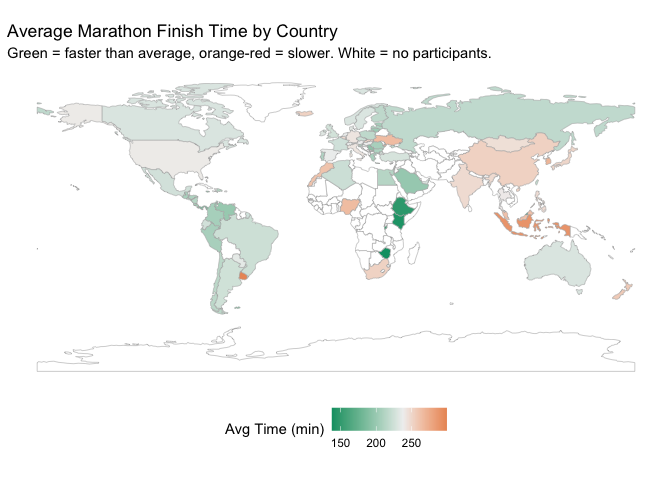
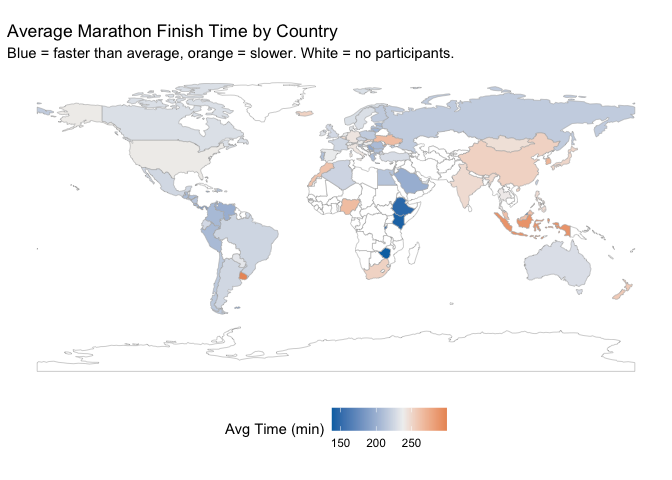
feat: fix color for marathon map green -> blue

diff --git a/project-02/siedler_project_02.md b/project-02/siedler_project_02.md
@@ -1,21 +1,19 @@
 ---
 title: "Mini-Project 02"
-author: "Sebastian Siedler, [email redacted]"
-output:
+output: 
   html_document:
     keep_md: true
     toc: true
     toc_float: true
-    df_print: paged
 ---
 
 # Data Visualization Project 02
 
+
+
 ## Data Loading and Preparation
 
-The dataset used is the Boston Marathon 2017 results. It contains information on all finishers including their name, age, gender, origin, split times at every 5K mark, pace, and official finishing time.
-
-
+The dataset used is the Boston Marathon 2017 results. It contains information on all finishers including their name, age, gender, origin (city, state, country), split times at every 5K mark, pace, and official finishing time.
 
 
 ``` r
@@ -83,11 +81,12 @@ df %>%
   )
 ```
 
-<div data-pagedtable="false">
-  <script data-pagedtable-source type="application/json">
-{"columns":[{"label":["Total_Runners"],"name":[1],"type":["int"],"align":["right"]},{"label":["Countries"],"name":[2],"type":["int"],"align":["right"]},{"label":["Median_Age"],"name":[3],"type":["dbl"],"align":["right"]},{"label":["Median_Time"],"name":[4],"type":["dbl"],"align":["right"]},{"label":["Female_Pct"],"name":[5],"type":["dbl"],"align":["right"]}],"data":[{"1":"26410","2":"91","3":"43","4":"231.6583","5":"45.33131"}],"options":{"columns":{"min":{},"max":[10]},"rows":{"min":[10],"max":[10]},"pages":{}}}
-  </script>
-</div>
+```
+## # A tibble: 1 × 5
+##   Total_Runners Countries Median_Age Median_Time Female_Pct
+##           <int>     <int>      <dbl>       <dbl>      <dbl>
+## 1         26410        91         43        232.       45.3
+```
 
 ## Visualization 1 (Interactive): Age and Finish Time Distributions
 
@@ -129,8 +128,8 @@ ggplotly(
 ```
 
 ```{=html}
-<div class="plotly html-widget html-fill-item" id="htmlwidget-3a6ae94a41f10b1ed620" style="width:672px;height:480px;"></div>
-<script type="application/json" data-for="htmlwidget-3a6ae94a41f10b1ed620">{"x":{"data":[{"orientation":"v","width":[2,2,2,2,2,2,2,2,2,2,2,2,2,2,2,2,2,2,2,2,2,2,2,2,2,2,2,2,2,2,2,2,2],"base":[0,0,0,0,0,0,0,0,0,0,0,0,0,0,0,0,0,0,0,0,0,0,0,0,0,0,0,0,0,0,0,0,0],"x":[19,21,23,25,27,29,31,33,35,37,39,41,43,45,47,49,51,53,55,57,59,61,63,65,67,69,71,73,75,77,79,81,83],"y":[146,357,757,1055,1161,1265,1146,1131,1533,1357,1638,1559,1357,2103,1627,1501,1296,1057,1186,765,776,620,274,324,167,125,44,39,25,9,6,2,2],"text":["Count: 146<br />Range: 18–20<br />Percent: 0.6%","Count: 357<br />Range: 20–22<br />Percent: 1.4%","Count: 757<br />Range: 22–24<br />Percent: 2.9%","Count: 1055<br />Range: 24–26<br />Percent: 4%","Count: 1161<br />Range: 26–28<br />Percent: 4.4%","Count: 1265<br />Range: 28–30<br />Percent: 4.8%","Count: 1146<br />Range: 30–32<br />Percent: 4.3%","Count: 1131<br />Range: 32–34<br />Percent: 4.3%","Count: 1533<br />Range: 34–36<br />Percent: 5.8%","Count: 1357<br />Range: 36–38<br />Percent: 5.1%","Count: 1638<br />Range: 38–40<br />Percent: 6.2%","Count: 1559<br />Range: 40–42<br />Percent: 5.9%","Count: 1357<br />Range: 42–44<br />Percent: 5.1%","Count: 2103<br />Range: 44–46<br />Percent: 8%","Count: 1627<br />Range: 46–48<br />Percent: 6.2%","Count: 1501<br />Range: 48–50<br />Percent: 5.7%","Count: 1296<br />Range: 50–52<br />Percent: 4.9%","Count: 1057<br />Range: 52–54<br />Percent: 4%","Count: 1186<br />Range: 54–56<br />Percent: 4.5%","Count: 765<br />Range: 56–58<br />Percent: 2.9%","Count: 776<br />Range: 58–60<br />Percent: 2.9%","Count: 620<br />Range: 60–62<br />Percent: 2.3%","Count: 274<br />Range: 62–64<br />Percent: 1%","Count: 324<br />Range: 64–66<br />Percent: 1.2%","Count: 167<br />Range: 66–68<br />Percent: 0.6%","Count: 125<br />Range: 68–70<br />Percent: 0.5%","Count: 44<br />Range: 70–72<br />Percent: 0.2%","Count: 39<br />Range: 72–74<br />Percent: 0.1%","Count: 25<br />Range: 74–76<br />Percent: 0.1%","Count: 9<br />Range: 76–78<br />Percent: 0%","Count: 6<br />Range: 78–80<br />Percent: 0%","Count: 2<br />Range: 80–82<br />Percent: 0%","Count: 2<br />Range: 82–84<br />Percent: 0%"],"type":"bar","textposition":"none","marker":{"autocolorscale":false,"color":"rgba(0,114,178,0.85)","line":{"width":1.8897637795275593,"color":"rgba(255,255,255,1)"}},"showlegend":false,"xaxis":"x","yaxis":"y","hoverinfo":"text","frame":null}],"layout":{"margin":{"t":40.840182648401829,"r":7.3059360730593621,"b":37.260273972602747,"l":48.949771689497723},"plot_bgcolor":"rgba(255,255,255,1)","paper_bgcolor":"rgba(255,255,255,1)","font":{"color":"rgba(0,0,0,1)","family":"","size":14.611872146118724},"title":{"text":"Age Distribution","font":{"color":"rgba(0,0,0,1)","family":"","size":17.534246575342465},"x":0,"xref":"paper"},"xaxis":{"domain":[0,1],"automargin":true,"type":"linear","autorange":false,"range":[14.699999999999999,87.299999999999997],"tickmode":"array","ticktext":["20","40","60","80"],"tickvals":[20,40,60,80],"categoryorder":"array","categoryarray":["20","40","60","80"],"nticks":null,"ticks":"outside","tickcolor":"rgba(51,51,51,1)","ticklen":3.6529680365296811,"tickwidth":0.66417600664176002,"showticklabels":true,"tickfont":{"color":"rgba(77,77,77,1)","family":"","size":11.68949771689498},"tickangle":-0,"showline":false,"linecolor":null,"linewidth":0,"showgrid":true,"gridcolor":"rgba(235,235,235,1)","gridwidth":0.66417600664176002,"zeroline":false,"anchor":"y","title":{"text":"Age","font":{"color":"rgba(0,0,0,1)","family":"","size":14.611872146118724}},"hoverformat":".2f"},"yaxis":{"domain":[0,1],"automargin":true,"type":"linear","autorange":false,"range":[-105.15000000000001,2208.1500000000001],"tickmode":"array","ticktext":["0","500","1000","1500","2000"],"tickvals":[0,500,1000.0000000000001,1499.9999999999998,2000],"categoryorder":"array","categoryarray":["0","500","1000","1500","2000"],"nticks":null,"ticks":"outside","tickcolor":"rgba(51,51,51,1)","ticklen":3.6529680365296811,"tickwidth":0.66417600664176002,"showticklabels":true,"tickfont":{"color":"rgba(77,77,77,1)","family":"","size":11.68949771689498},"tickangle":-0,"showline":false,"linecolor":null,"linewidth":0,"showgrid":true,"gridcolor":"rgba(235,235,235,1)","gridwidth":0.66417600664176002,"zeroline":false,"anchor":"x","title":{"text":"Count","font":{"color":"rgba(0,0,0,1)","family":"","size":14.611872146118724}},"hoverformat":".2f"},"shapes":[{"type":"rect","fillcolor":"rgba(255,255,255,1)","line":{"color":"rgba(51,51,51,1)","width":0.66417600664176002,"linetype":"solid"},"yref":"paper","xref":"paper","layer":"below","x0":0,"x1":1,"y0":0,"y1":1}],"showlegend":false,"legend":{"bgcolor":"rgba(255,255,255,1)","bordercolor":"transparent","borderwidth":1.8897637795275593,"font":{"color":"rgba(0,0,0,1)","family":"","size":11.68949771689498}},"hovermode":"closest","barmode":"relative"},"config":{"doubleClick":"reset","modeBarButtonsToAdd":["hoverclosest","hovercompare"],"showSendToCloud":false},"source":"A","attrs":{"9cb23d45dd17":{"x":{},"y":{},"text":{},"type":"bar"}},"cur_data":"9cb23d45dd17","visdat":{"9cb23d45dd17":["function (y) ","x"]},"highlight":{"on":"plotly_click","persistent":false,"dynamic":false,"selectize":false,"opacityDim":0.20000000000000001,"selected":{"opacity":1},"debounce":0},"shinyEvents":["plotly_hover","plotly_click","plotly_selected","plotly_relayout","plotly_brushed","plotly_brushing","plotly_clickannotation","plotly_doubleclick","plotly_deselect","plotly_afterplot","plotly_sunburstclick"],"base_url":"https://plot.ly"},"evals":[],"jsHooks":[]}</script>
+<div class="plotly html-widget html-fill-item" id="htmlwidget-e283be3314cfbc374eac" style="width:672px;height:480px;"></div>
+<script type="application/json" data-for="htmlwidget-e283be3314cfbc374eac">{"x":{"data":[{"orientation":"v","width":[2,2,2,2,2,2,2,2,2,2,2,2,2,2,2,2,2,2,2,2,2,2,2,2,2,2,2,2,2,2,2,2,2],"base":[0,0,0,0,0,0,0,0,0,0,0,0,0,0,0,0,0,0,0,0,0,0,0,0,0,0,0,0,0,0,0,0,0],"x":[19,21,23,25,27,29,31,33,35,37,39,41,43,45,47,49,51,53,55,57,59,61,63,65,67,69,71,73,75,77,79,81,83],"y":[146,357,757,1055,1161,1265,1146,1131,1533,1357,1638,1559,1357,2103,1627,1501,1296,1057,1186,765,776,620,274,324,167,125,44,39,25,9,6,2,2],"text":["Count: 146<br />Range: 18–20<br />Percent: 0.6%","Count: 357<br />Range: 20–22<br />Percent: 1.4%","Count: 757<br />Range: 22–24<br />Percent: 2.9%","Count: 1055<br />Range: 24–26<br />Percent: 4%","Count: 1161<br />Range: 26–28<br />Percent: 4.4%","Count: 1265<br />Range: 28–30<br />Percent: 4.8%","Count: 1146<br />Range: 30–32<br />Percent: 4.3%","Count: 1131<br />Range: 32–34<br />Percent: 4.3%","Count: 1533<br />Range: 34–36<br />Percent: 5.8%","Count: 1357<br />Range: 36–38<br />Percent: 5.1%","Count: 1638<br />Range: 38–40<br />Percent: 6.2%","Count: 1559<br />Range: 40–42<br />Percent: 5.9%","Count: 1357<br />Range: 42–44<br />Percent: 5.1%","Count: 2103<br />Range: 44–46<br />Percent: 8%","Count: 1627<br />Range: 46–48<br />Percent: 6.2%","Count: 1501<br />Range: 48–50<br />Percent: 5.7%","Count: 1296<br />Range: 50–52<br />Percent: 4.9%","Count: 1057<br />Range: 52–54<br />Percent: 4%","Count: 1186<br />Range: 54–56<br />Percent: 4.5%","Count: 765<br />Range: 56–58<br />Percent: 2.9%","Count: 776<br />Range: 58–60<br />Percent: 2.9%","Count: 620<br />Range: 60–62<br />Percent: 2.3%","Count: 274<br />Range: 62–64<br />Percent: 1%","Count: 324<br />Range: 64–66<br />Percent: 1.2%","Count: 167<br />Range: 66–68<br />Percent: 0.6%","Count: 125<br />Range: 68–70<br />Percent: 0.5%","Count: 44<br />Range: 70–72<br />Percent: 0.2%","Count: 39<br />Range: 72–74<br />Percent: 0.1%","Count: 25<br />Range: 74–76<br />Percent: 0.1%","Count: 9<br />Range: 76–78<br />Percent: 0%","Count: 6<br />Range: 78–80<br />Percent: 0%","Count: 2<br />Range: 80–82<br />Percent: 0%","Count: 2<br />Range: 82–84<br />Percent: 0%"],"type":"bar","textposition":"none","marker":{"autocolorscale":false,"color":"rgba(0,114,178,0.85)","line":{"width":1.8897637795275593,"color":"rgba(255,255,255,1)"}},"showlegend":false,"xaxis":"x","yaxis":"y","hoverinfo":"text","frame":null}],"layout":{"margin":{"t":40.840182648401829,"r":7.3059360730593621,"b":37.260273972602747,"l":48.949771689497723},"plot_bgcolor":"rgba(255,255,255,1)","paper_bgcolor":"rgba(255,255,255,1)","font":{"color":"rgba(0,0,0,1)","family":"","size":14.611872146118724},"title":{"text":"Age Distribution","font":{"color":"rgba(0,0,0,1)","family":"","size":17.534246575342465},"x":0,"xref":"paper"},"xaxis":{"domain":[0,1],"automargin":true,"type":"linear","autorange":false,"range":[14.699999999999999,87.299999999999997],"tickmode":"array","ticktext":["20","40","60","80"],"tickvals":[20,40,60,80],"categoryorder":"array","categoryarray":["20","40","60","80"],"nticks":null,"ticks":"outside","tickcolor":"rgba(51,51,51,1)","ticklen":3.6529680365296811,"tickwidth":0.66417600664176002,"showticklabels":true,"tickfont":{"color":"rgba(77,77,77,1)","family":"","size":11.68949771689498},"tickangle":-0,"showline":false,"linecolor":null,"linewidth":0,"showgrid":true,"gridcolor":"rgba(235,235,235,1)","gridwidth":0.66417600664176002,"zeroline":false,"anchor":"y","title":{"text":"Age","font":{"color":"rgba(0,0,0,1)","family":"","size":14.611872146118724}},"hoverformat":".2f"},"yaxis":{"domain":[0,1],"automargin":true,"type":"linear","autorange":false,"range":[-105.15000000000001,2208.1500000000001],"tickmode":"array","ticktext":["0","500","1000","1500","2000"],"tickvals":[0,500,1000.0000000000001,1499.9999999999998,2000],"categoryorder":"array","categoryarray":["0","500","1000","1500","2000"],"nticks":null,"ticks":"outside","tickcolor":"rgba(51,51,51,1)","ticklen":3.6529680365296811,"tickwidth":0.66417600664176002,"showticklabels":true,"tickfont":{"color":"rgba(77,77,77,1)","family":"","size":11.68949771689498},"tickangle":-0,"showline":false,"linecolor":null,"linewidth":0,"showgrid":true,"gridcolor":"rgba(235,235,235,1)","gridwidth":0.66417600664176002,"zeroline":false,"anchor":"x","title":{"text":"Count","font":{"color":"rgba(0,0,0,1)","family":"","size":14.611872146118724}},"hoverformat":".2f"},"shapes":[{"type":"rect","fillcolor":"rgba(255,255,255,1)","line":{"color":"rgba(51,51,51,1)","width":0.66417600664176002,"linetype":"solid"},"yref":"paper","xref":"paper","layer":"below","x0":0,"x1":1,"y0":0,"y1":1}],"showlegend":false,"legend":{"bgcolor":"rgba(255,255,255,1)","bordercolor":"transparent","borderwidth":1.8897637795275593,"font":{"color":"rgba(0,0,0,1)","family":"","size":11.68949771689498}},"hovermode":"closest","barmode":"relative"},"config":{"doubleClick":"reset","modeBarButtonsToAdd":["hoverclosest","hovercompare"],"showSendToCloud":false},"source":"A","attrs":{"1223238747977":{"x":{},"y":{},"text":{},"type":"bar"}},"cur_data":"1223238747977","visdat":{"1223238747977":["function (y) ","x"]},"highlight":{"on":"plotly_click","persistent":false,"dynamic":false,"selectize":false,"opacityDim":0.20000000000000001,"selected":{"opacity":1},"debounce":0},"shinyEvents":["plotly_hover","plotly_click","plotly_selected","plotly_relayout","plotly_brushed","plotly_brushing","plotly_clickannotation","plotly_doubleclick","plotly_deselect","plotly_afterplot","plotly_sunburstclick"],"base_url":"https://plot.ly"},"evals":[],"jsHooks":[]}</script>
 ```
 
 
@@ -157,11 +156,11 @@ ggplotly(
 ```
 
 ```{=html}
-<div class="plotly html-widget html-fill-item" id="htmlwidget-467d5a4cc8c872dfcbab" style="width:672px;height:480px;"></div>
-<script type="application/json" data-for="htmlwidget-467d5a4cc8c872dfcbab">{"x":{"data":[{"orientation":"v","width":[10,10,10,10,10,10,10,10,10,10,10,10,10,10,10,10,10,10,10,10,10,10,10,10,10,10,10,10,10,10,10,10,10,10,10,10],"base":[0,0,0,0,0,0,0,0,0,0,0,0,0,0,0,0,0,0,0,0,0,0,0,0,0,0,0,0,0,0,0,0,0,0,0,0],"x":[125,135,145,155,165,175,185,195,205,215,225,235,245,255,265,275,285,295,305,315,325,335,345,355,365,375,385,395,405,415,425,435,445,455,465,475],"y":[2,16,38,130,400,869,1371,1828,2393,2712,2957,2915,2036,1865,1488,1152,963,799,597,523,428,323,250,229,97,8,5,3,4,3,2,2,1,0,0,1],"text":["Count: 2<br />Range: 120–130<br />Percent: 0%","Count: 16<br />Range: 130–140<br />Percent: 0.1%","Count: 38<br />Range: 140–150<br />Percent: 0.1%","Count: 130<br />Range: 150–160<br />Percent: 0.5%","Count: 400<br />Range: 160–170<br />Percent: 1.5%","Count: 869<br />Range: 170–180<br />Percent: 3.3%","Count: 1371<br />Range: 180–190<br />Percent: 5.2%","Count: 1828<br />Range: 190–200<br />Percent: 6.9%","Count: 2393<br />Range: 200–210<br />Percent: 9.1%","Count: 2712<br />Range: 210–220<br />Percent: 10.3%","Count: 2957<br />Range: 220–230<br />Percent: 11.2%","Count: 2915<br />Range: 230–240<br />Percent: 11%","Count: 2036<br />Range: 240–250<br />Percent: 7.7%","Count: 1865<br />Range: 250–260<br />Percent: 7.1%","Count: 1488<br />Range: 260–270<br />Percent: 5.6%","Count: 1152<br />Range: 270–280<br />Percent: 4.4%","Count: 963<br />Range: 280–290<br />Percent: 3.6%","Count: 799<br />Range: 290–300<br />Percent: 3%","Count: 597<br />Range: 300–310<br />Percent: 2.3%","Count: 523<br />Range: 310–320<br />Percent: 2%","Count: 428<br />Range: 320–330<br />Percent: 1.6%","Count: 323<br />Range: 330–340<br />Percent: 1.2%","Count: 250<br />Range: 340–350<br />Percent: 0.9%","Count: 229<br />Range: 350–360<br />Percent: 0.9%","Count: 97<br />Range: 360–370<br />Percent: 0.4%","Count: 8<br />Range: 370–380<br />Percent: 0%","Count: 5<br />Range: 380–390<br />Percent: 0%","Count: 3<br />Range: 390–400<br />Percent: 0%","Count: 4<br />Range: 400–410<br />Percent: 0%","Count: 3<br />Range: 410–420<br />Percent: 0%","Count: 2<br />Range: 420–430<br />Percent: 0%","Count: 2<br />Range: 430–440<br />Percent: 0%","Count: 1<br />Range: 440–450<br />Percent: 0%","Count: 0<br />Range: 450–460<br />Percent: 0%","Count: 0<br />Range: 460–470<br />Percent: 0%","Count: 1<br />Range: 470–480<br />Percent: 0%"],"type":"bar","textposition":"none","marker":{"autocolorscale":false,"color":"rgba(0,158,115,0.85)","line":{"width":1.8897637795275593,"color":"rgba(255,255,255,1)"}},"showlegend":false,"xaxis":"x","yaxis":"y","hoverinfo":"text","frame":null}],"layout":{"margin":{"t":40.840182648401829,"r":7.3059360730593621,"b":37.260273972602747,"l":48.949771689497723},"plot_bgcolor":"rgba(255,255,255,1)","paper_bgcolor":"rgba(255,255,255,1)","font":{"color":"rgba(0,0,0,1)","family":"","size":14.611872146118724},"title":{"text":"Finishing Time Distribution","font":{"color":"rgba(0,0,0,1)","family":"","size":17.534246575342465},"x":0,"xref":"paper"},"xaxis":{"domain":[0,1],"automargin":true,"type":"linear","autorange":false,"range":[102,498],"tickmode":"array","ticktext":["200","300","400"],"tickvals":[200,300,400],"categoryorder":"array","categoryarray":["200","300","400"],"nticks":null,"ticks":"outside","tickcolor":"rgba(51,51,51,1)","ticklen":3.6529680365296811,"tickwidth":0.66417600664176002,"showticklabels":true,"tickfont":{"color":"rgba(77,77,77,1)","family":"","size":11.68949771689498},"tickangle":-0,"showline":false,"linecolor":null,"linewidth":0,"showgrid":true,"gridcolor":"rgba(235,235,235,1)","gridwidth":0.66417600664176002,"zeroline":false,"anchor":"y","title":{"text":"Time (minutes)","font":{"color":"rgba(0,0,0,1)","family":"","size":14.611872146118724}},"hoverformat":".2f"},"yaxis":{"domain":[0,1],"automargin":true,"type":"linear","autorange":false,"range":[-147.84999999999999,3104.8499999999999],"tickmode":"array","ticktext":["0","1000","2000","3000"],"tickvals":[0,999.99999999999989,2000,3000],"categoryorder":"array","categoryarray":["0","1000","2000","3000"],"nticks":null,"ticks":"outside","tickcolor":"rgba(51,51,51,1)","ticklen":3.6529680365296811,"tickwidth":0.66417600664176002,"showticklabels":true,"tickfont":{"color":"rgba(77,77,77,1)","family":"","size":11.68949771689498},"tickangle":-0,"showline":false,"linecolor":null,"linewidth":0,"showgrid":true,"gridcolor":"rgba(235,235,235,1)","gridwidth":0.66417600664176002,"zeroline":false,"anchor":"x","title":{"text":"Count","font":{"color":"rgba(0,0,0,1)","family":"","size":14.611872146118724}},"hoverformat":".2f"},"shapes":[{"type":"rect","fillcolor":"rgba(255,255,255,1)","line":{"color":"rgba(51,51,51,1)","width":0.66417600664176002,"linetype":"solid"},"yref":"paper","xref":"paper","layer":"below","x0":0,"x1":1,"y0":0,"y1":1}],"showlegend":false,"legend":{"bgcolor":"rgba(255,255,255,1)","bordercolor":"transparent","borderwidth":1.8897637795275593,"font":{"color":"rgba(0,0,0,1)","family":"","size":11.68949771689498}},"hovermode":"closest","barmode":"relative"},"config":{"doubleClick":"reset","modeBarButtonsToAdd":["hoverclosest","hovercompare"],"showSendToCloud":false},"source":"A","attrs":{"9cb21c91a0b9":{"x":{},"y":{},"text":{},"type":"bar"}},"cur_data":"9cb21c91a0b9","visdat":{"9cb21c91a0b9":["function (y) ","x"]},"highlight":{"on":"plotly_click","persistent":false,"dynamic":false,"selectize":false,"opacityDim":0.20000000000000001,"selected":{"opacity":1},"debounce":0},"shinyEvents":["plotly_hover","plotly_click","plotly_selected","plotly_relayout","plotly_brushed","plotly_brushing","plotly_clickannotation","plotly_doubleclick","plotly_deselect","plotly_afterplot","plotly_sunburstclick"],"base_url":"https://plot.ly"},"evals":[],"jsHooks":[]}</script>
+<div class="plotly html-widget html-fill-item" id="htmlwidget-536eb66f47ae3655f610" style="width:672px;height:480px;"></div>
+<script type="application/json" data-for="htmlwidget-536eb66f47ae3655f610">{"x":{"data":[{"orientation":"v","width":[10,10,10,10,10,10,10,10,10,10,10,10,10,10,10,10,10,10,10,10,10,10,10,10,10,10,10,10,10,10,10,10,10,10,10,10],"base":[0,0,0,0,0,0,0,0,0,0,0,0,0,0,0,0,0,0,0,0,0,0,0,0,0,0,0,0,0,0,0,0,0,0,0,0],"x":[125,135,145,155,165,175,185,195,205,215,225,235,245,255,265,275,285,295,305,315,325,335,345,355,365,375,385,395,405,415,425,435,445,455,465,475],"y":[2,16,38,130,400,869,1371,1828,2393,2712,2957,2915,2036,1865,1488,1152,963,799,597,523,428,323,250,229,97,8,5,3,4,3,2,2,1,0,0,1],"text":["Count: 2<br />Range: 120–130<br />Percent: 0%","Count: 16<br />Range: 130–140<br />Percent: 0.1%","Count: 38<br />Range: 140–150<br />Percent: 0.1%","Count: 130<br />Range: 150–160<br />Percent: 0.5%","Count: 400<br />Range: 160–170<br />Percent: 1.5%","Count: 869<br />Range: 170–180<br />Percent: 3.3%","Count: 1371<br />Range: 180–190<br />Percent: 5.2%","Count: 1828<br />Range: 190–200<br />Percent: 6.9%","Count: 2393<br />Range: 200–210<br />Percent: 9.1%","Count: 2712<br />Range: 210–220<br />Percent: 10.3%","Count: 2957<br />Range: 220–230<br />Percent: 11.2%","Count: 2915<br />Range: 230–240<br />Percent: 11%","Count: 2036<br />Range: 240–250<br />Percent: 7.7%","Count: 1865<br />Range: 250–260<br />Percent: 7.1%","Count: 1488<br />Range: 260–270<br />Percent: 5.6%","Count: 1152<br />Range: 270–280<br />Percent: 4.4%","Count: 963<br />Range: 280–290<br />Percent: 3.6%","Count: 799<br />Range: 290–300<br />Percent: 3%","Count: 597<br />Range: 300–310<br />Percent: 2.3%","Count: 523<br />Range: 310–320<br />Percent: 2%","Count: 428<br />Range: 320–330<br />Percent: 1.6%","Count: 323<br />Range: 330–340<br />Percent: 1.2%","Count: 250<br />Range: 340–350<br />Percent: 0.9%","Count: 229<br />Range: 350–360<br />Percent: 0.9%","Count: 97<br />Range: 360–370<br />Percent: 0.4%","Count: 8<br />Range: 370–380<br />Percent: 0%","Count: 5<br />Range: 380–390<br />Percent: 0%","Count: 3<br />Range: 390–400<br />Percent: 0%","Count: 4<br />Range: 400–410<br />Percent: 0%","Count: 3<br />Range: 410–420<br />Percent: 0%","Count: 2<br />Range: 420–430<br />Percent: 0%","Count: 2<br />Range: 430–440<br />Percent: 0%","Count: 1<br />Range: 440–450<br />Percent: 0%","Count: 0<br />Range: 450–460<br />Percent: 0%","Count: 0<br />Range: 460–470<br />Percent: 0%","Count: 1<br />Range: 470–480<br />Percent: 0%"],"type":"bar","textposition":"none","marker":{"autocolorscale":false,"color":"rgba(0,158,115,0.85)","line":{"width":1.8897637795275593,"color":"rgba(255,255,255,1)"}},"showlegend":false,"xaxis":"x","yaxis":"y","hoverinfo":"text","frame":null}],"layout":{"margin":{"t":40.840182648401829,"r":7.3059360730593621,"b":37.260273972602747,"l":48.949771689497723},"plot_bgcolor":"rgba(255,255,255,1)","paper_bgcolor":"rgba(255,255,255,1)","font":{"color":"rgba(0,0,0,1)","family":"","size":14.611872146118724},"title":{"text":"Finishing Time Distribution","font":{"color":"rgba(0,0,0,1)","family":"","size":17.534246575342465},"x":0,"xref":"paper"},"xaxis":{"domain":[0,1],"automargin":true,"type":"linear","autorange":false,"range":[102,498],"tickmode":"array","ticktext":["200","300","400"],"tickvals":[200,300,400],"categoryorder":"array","categoryarray":["200","300","400"],"nticks":null,"ticks":"outside","tickcolor":"rgba(51,51,51,1)","ticklen":3.6529680365296811,"tickwidth":0.66417600664176002,"showticklabels":true,"tickfont":{"color":"rgba(77,77,77,1)","family":"","size":11.68949771689498},"tickangle":-0,"showline":false,"linecolor":null,"linewidth":0,"showgrid":true,"gridcolor":"rgba(235,235,235,1)","gridwidth":0.66417600664176002,"zeroline":false,"anchor":"y","title":{"text":"Time (minutes)","font":{"color":"rgba(0,0,0,1)","family":"","size":14.611872146118724}},"hoverformat":".2f"},"yaxis":{"domain":[0,1],"automargin":true,"type":"linear","autorange":false,"range":[-147.84999999999999,3104.8499999999999],"tickmode":"array","ticktext":["0","1000","2000","3000"],"tickvals":[0,999.99999999999989,2000,3000],"categoryorder":"array","categoryarray":["0","1000","2000","3000"],"nticks":null,"ticks":"outside","tickcolor":"rgba(51,51,51,1)","ticklen":3.6529680365296811,"tickwidth":0.66417600664176002,"showticklabels":true,"tickfont":{"color":"rgba(77,77,77,1)","family":"","size":11.68949771689498},"tickangle":-0,"showline":false,"linecolor":null,"linewidth":0,"showgrid":true,"gridcolor":"rgba(235,235,235,1)","gridwidth":0.66417600664176002,"zeroline":false,"anchor":"x","title":{"text":"Count","font":{"color":"rgba(0,0,0,1)","family":"","size":14.611872146118724}},"hoverformat":".2f"},"shapes":[{"type":"rect","fillcolor":"rgba(255,255,255,1)","line":{"color":"rgba(51,51,51,1)","width":0.66417600664176002,"linetype":"solid"},"yref":"paper","xref":"paper","layer":"below","x0":0,"x1":1,"y0":0,"y1":1}],"showlegend":false,"legend":{"bgcolor":"rgba(255,255,255,1)","bordercolor":"transparent","borderwidth":1.8897637795275593,"font":{"color":"rgba(0,0,0,1)","family":"","size":11.68949771689498}},"hovermode":"closest","barmode":"relative"},"config":{"doubleClick":"reset","modeBarButtonsToAdd":["hoverclosest","hovercompare"],"showSendToCloud":false},"source":"A","attrs":{"1223267d48d7b":{"x":{},"y":{},"text":{},"type":"bar"}},"cur_data":"1223267d48d7b","visdat":{"1223267d48d7b":["function (y) ","x"]},"highlight":{"on":"plotly_click","persistent":false,"dynamic":false,"selectize":false,"opacityDim":0.20000000000000001,"selected":{"opacity":1},"debounce":0},"shinyEvents":["plotly_hover","plotly_click","plotly_selected","plotly_relayout","plotly_brushed","plotly_brushing","plotly_clickannotation","plotly_doubleclick","plotly_deselect","plotly_afterplot","plotly_sunburstclick"],"base_url":"https://plot.ly"},"evals":[],"jsHooks":[]}</script>
 ```
 
-## Visualization 2: Average Finish Time by Country (Choropleth)
+## Visualization 2: Average Finish Time by Country
 
 A choropleth map using **sf** showing average official finishing time by country. International runners tend to be faster on average than US-based runners — likely because only the most dedicated athletes travel internationally to compete. Countries with no participants are shown in white to distinguish them from the grey midpoint of the diverging scale.
 
@@ -196,7 +195,7 @@ overall_avg <- mean(df$Official_Time_min, na.rm = TRUE)
 ggplot(world_sf) +
   geom_sf(aes(fill = Avg_Time), color = "grey70", linewidth = 0.2) +
   scale_fill_gradient2(
-    low = "#009E73",
+    low = "#0072B2",
     mid = "#f0f0f0",
     high = "#D55E00",
     midpoint = overall_avg,
@@ -205,7 +204,7 @@ ggplot(world_sf) +
   ) +
   labs(
     title = "Average Marathon Finish Time by Country",
-    subtitle = "Green = faster than average, orange-red = slower. White = no participants."
+    subtitle = "Blue = faster than average, orange = slower. White = no participants."
   ) +
   theme_minimal() +
   theme(
@@ -214,7 +213,7 @@ ggplot(world_sf) +
   )
 ```
 
-<img src="siedler_project_02_files/figure-html/spatial-choropleth-1.png" alt="World choropleth map showing average Boston Marathon 2017 finishing time by country. Green countries are faster-than-average, red countries slower. The USA appears in a neutral grey tone near the global average. Most of Africa and parts of Asia have no participants and are shown in white."  />
+<img src="siedler_project_02_files/figure-html/spatial-choropleth-1.png" alt="World choropleth map showing average Boston Marathon 2017 finishing time by country. Blue countries are faster-than-average, orange countries slower. The USA appears in a neutral grey tone near the global average. Most of Africa and parts of Asia have no participants and are shown in white."  />
 
 ## Visualization 3: Histogram of Marathon Finish Times
 
@@ -248,7 +247,7 @@ ggplot(df, aes(x = Official_Time_min / 60)) +
 
 ## Visualization 4: Average Time by Age and Gender
 
-Average official finishing time at each individual age (18 to 70), split by gender. Performance peaks in the early 20s to mid-30s, then gradually declines. The gender gap is consistent at about 30 minutes across all ages. Colors follow the Okabe-Ito colorblind-safe palette.
+Average official finishing time at each individual age (18 to 70), split by gender. We can see that the average time has its minimum in the early 20s to mid-30s. The older you get the slower you tend to be. Also you can clearly see the difference in performance between male and female runners. In the early 30s, male runners tend to be faster (by about 30min) than female runners. I think another interesting visualization would be the fastest finishing time by age group but on a bigger dataset. If I remember correctly, marathon is one of the disciplines, where most runners peak in their mid to late 30s. Colors follow the Okabe-Ito colorblind-safe palette.
 
 
 ``` r
@@ -388,19 +387,26 @@ df_medians %>%
 <img src="siedler_project_02_files/figure-html/redesign-after-1.png" alt="Redesigned version of the median finishing time by age and gender chart. Uses Okabe-Ito colorblind-safe palette: blue for male, orange for female. A dashed line annotates the gender gap at age 33. Layout uses theme_bw for improved contrast."  />
 
 ## Report
-
-I'm interested in running, which led me to pick the Boston Marathon 2017 dataset.
+I myself are kinda interested in running and therefore I decided to pick this specific dataset. After some research I found that this dataset is from the Boston 2017 Marathon.
 
 ### Original Plans and Data Preparation
-
-- I initially planned to visualize participant counts per country on a map, but the US dominated the dataset so heavily that it was not informative. Even a log scale did not help.
-- I wanted to explore whether US runners aim for "round" mile-based pace targets (e.g., 8:00/mile) vs. km-based ones, but participants focus more on total target times than pace splits.
-- An interesting future direction: animate runners on the actual race route using the 5K, 10K, … split times to interpolate positions over time.
+- I planned to visualize the participants per country on a map. but because the US was dominating the dataset, the map would not be very informative, with just one country (the US) being clearly visible and the rest of the world having very low visibility. I even tried to use a log scale for the color mapping, but it didn't improve the visualization significantly.
+- I also wanted to see if there is a difference in the pace of runners by country with "round" numbers. Because people in the US use miles for distance instead of kilometers I thought they would maybe try to run a "round" number pace, but because this is a marathon the participants focus more on a calculated target time rather than a specific pace.
+- one interesting idea would also be to animate the participans on a actual map of the race. Because we have the 5k, 10k, ... times we could interpolate the positions of the runners over time to see the runners moving on the map.
+- I had one issue in fitting a smooth line through the data points in the median time by age plot. The issue was, that I used the medians for this line instead of the raw data.
 
 ### What the Plots Reveal
 
-The interactive histograms show an age peak around 40 and a finish time peak in the 3.5–4.5 hour range. The finish time histogram shows dramatic spikes just before 3h and 4h — the psychological "holy grail" barriers. The choropleth shows international runners are faster on average, consistent with the selection effect of traveling to compete. The age/gender plot confirms performance peaks in the late 20s to mid-30s with a ~30-minute consistent gender gap. The linear model quantifies: +0.56 min/year of age, +28 min for female vs. male.
+The interactive histograms show that the age distribution is roughly normal-ish with a peak around 40. Most people run this thing in the 3.5–4.5 hour range, which is honestly pretty solid. The smooth bell curve you'd expect from a normal distribution doesn't exist here. The finish time histogram looks like a mountain range because of psychology; nobody wants to see 4:00:01 on their finish time, so you get these massive spikes right before round numbers like 3h and 4h. Sub-4 is basically the holy grail.
+
+The map using Natural Earth shapefiles shows average finish time by country. US runners are slower on average, which makes sense: International runners are usually the more dedicated ones who travel specifically for the race. Kenya and Ethiopia aren't super visible in this dataset because there just aren't that many of them in the 2017 Boston field, but when they show up, they're fast.
+
+The median time by age plot confirms what you'd expect: performance peaks in your 20s–30s, then it's a gradual decline. The gap between men and women is pretty consistent at around 30 minutes across all ages. The loess smooth through the medians shows the trend much cleaner.
+
+The linear model coefficients plot quantifies it: every additional year of age adds about 0.56 minutes to your finish time. Being female adds ~28 minutes compared to male. The confidence intervals are tight because we have 26K data points, so these estimates are pretty reliable. No intercept shown because that's just the baseline! It is the effect sizes are what matter.
+
+One thing I noticed: the histogram spikes at 3h and 4h are way more dramatic than at 3:30 or 4:30. People really care about getting under those even-hour barriers. A 3:59:59 is infinitely better than 4:00:01 psychologically, and the data backs that up hard.
 
 ### Design Principles Applied
 
-`theme_bw()` is used throughout for consistent, high-contrast styling. Colors follow the Okabe-Ito palette (`#0072B2`, `#D55E00`, `#009E73`) which is safe for all major colorblindness types. The choropleth uses a diverging scale centered on the global average, making above/below-average immediately apparent. Annotations are placed directly on the canvas to reduce reliance on legends. The interactive histograms use tooltip-based information so the chart canvas stays uncluttered.
+`theme_bw()` is used throughout for consistent, high-contrast styling. Colors follow the Okabe-Ito palette (`#0072B2`, `#D55E00`, `#009E73`) which is safe for all major colorblindness types. The choropleth is a special case worth noting: Okabe-Ito colors are designed for discrete categories, but a continuous diverging scale requires extra care because intermediate tones blend together. Green (`#009E73`) and orange (`#D55E00`) can both shift toward brownish-olive under deuteranopia, making them hard to distinguish at intermediate values. Blue (`#0072B2`) and orange (`#D55E00`) remain distinguishable across all major colorblindness types even in a continuous gradient, so the choropleth uses blue as the low (faster) end rather than green. Annotations are placed directly on the canvas to reduce reliance on legends. The interactive histograms use tooltip-based information so the chart canvas stays uncluttered.